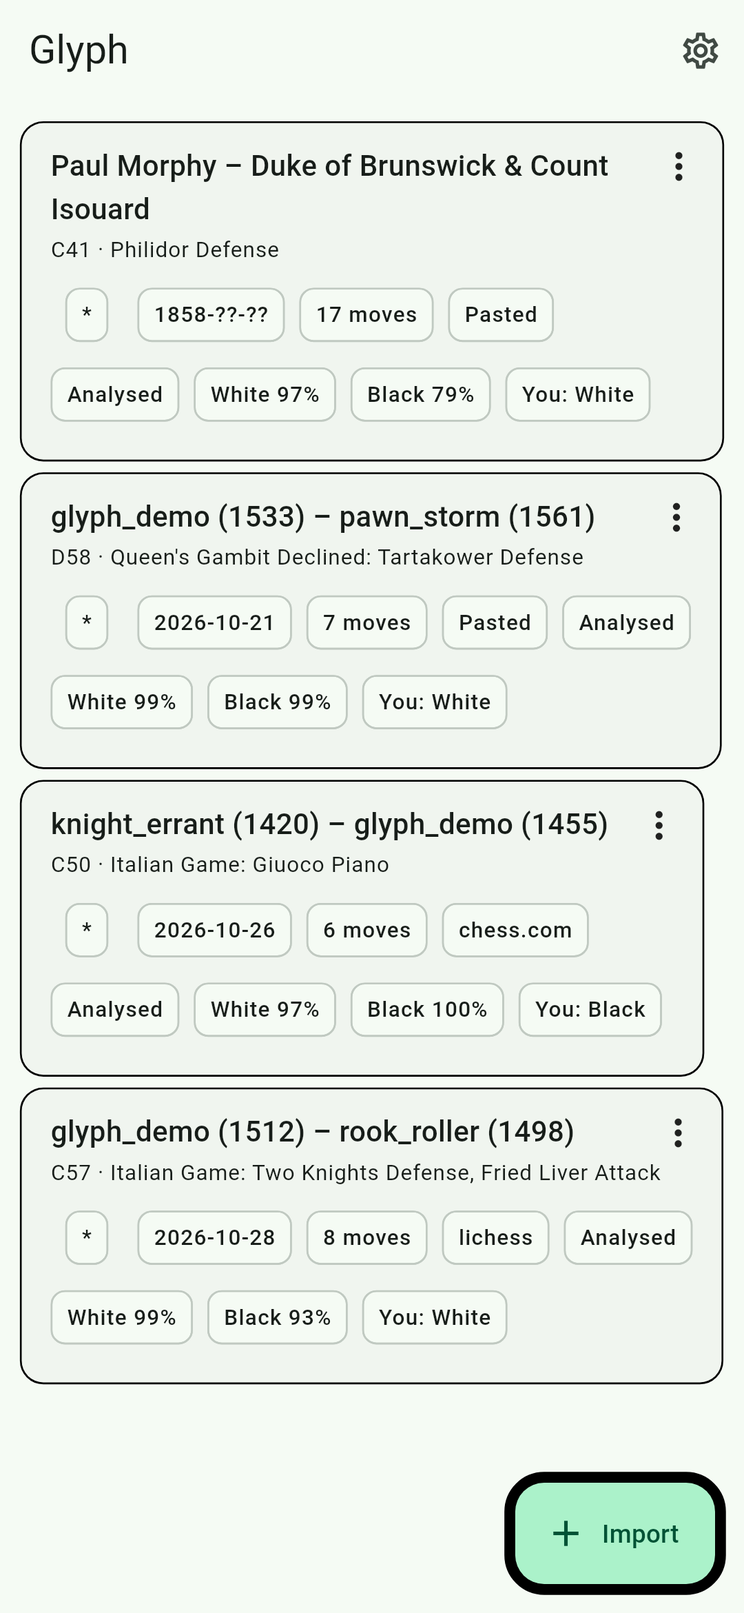
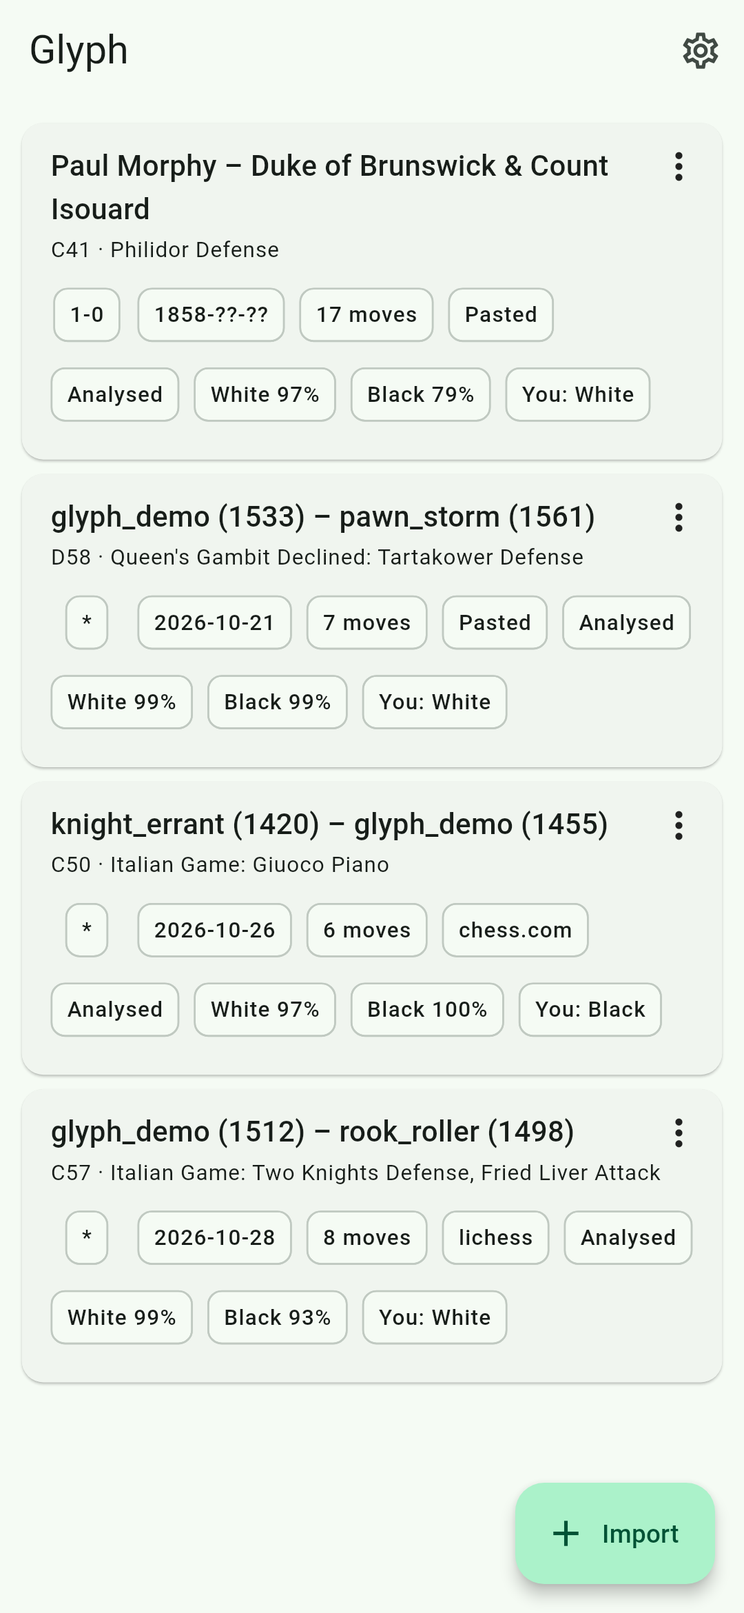
M9 review fixes: accurate docs, hardened release workflow, card width bug
- README: Ollama OLLAMA_HOST, honest interop/accuracy claims, exact
  Best/Great/Miss wording, correct User-Agents and doc pointers
- RELEASE.md: --force re-record, per-file synthetic SSE flags, single
  publishing path
- release.yml split build (read) / publish (write), actions pinned to
  SHAs, no persisted credentials, tag == pubspec version, per-version
  notes; ci.yml contents: read
- Library cards fill the list width (Dismissible loosened constraints);
  regression test
- Screenshots regenerated with real shadows and results
- PROGRESS acceptance table cleaned up

Claude-Session: https://claude.ai/code/session_01MHCGD6p3GEwnUrUNFEK8H3

diff --git a/app/test/screenshots/screenshots_test.dart b/app/test/screenshots/screenshots_test.dart
@@ -56,7 +56,7 @@ String _flutterRoot() {
 }
 
 class _Sample {
-  const _Sample(this.transcript, this.white, this.black, this.whiteElo, this.blackElo, this.date, this.source, this.userSide);
+  const _Sample(this.transcript, this.white, this.black, this.whiteElo, this.blackElo, this.date, this.source, this.userSide, this.result);
   final String transcript;
   final String white;
   final String black;
@@ -65,13 +65,18 @@ class _Sample {
   final String date;
   final GameSource source;
   final Side userSide;
+
+  /// The real result of the recorded moves: 1-0 for the Opera game (it ends in
+  /// Rd8#); the other three are recorded opening fragments (12 to 16 plies)
+  /// that end mid-game, so their result is "*".
+  final String result;
 }
 
 const _samples = [
-  _Sample('blunder_white', 'glyph_demo', 'rook_roller', 1512, 1498, '2026.10.28', GameSource.lichess, Side.white),
-  _Sample('italian_castle', 'knight_errant', 'glyph_demo', 1420, 1455, '2026.10.26', GameSource.chesscom, Side.black),
-  _Sample('queens_gambit', 'glyph_demo', 'pawn_storm', 1533, 1561, '2026.10.21', GameSource.paste, Side.white),
-  _Sample('mate_opera', 'Paul Morphy', 'Duke of Brunswick & Count Isouard', 0, 0, '1858.??.??', GameSource.paste, Side.white),
+  _Sample('blunder_white', 'glyph_demo', 'rook_roller', 1512, 1498, '2026.10.28', GameSource.lichess, Side.white, '*'),
+  _Sample('italian_castle', 'knight_errant', 'glyph_demo', 1420, 1455, '2026.10.26', GameSource.chesscom, Side.black, '*'),
+  _Sample('queens_gambit', 'glyph_demo', 'pawn_storm', 1533, 1561, '2026.10.21', GameSource.paste, Side.white, '*'),
+  _Sample('mate_opera', 'Paul Morphy', 'Duke of Brunswick & Count Isouard', 0, 0, '1858.??.??', GameSource.paste, Side.white, '1-0'),
 ];
 
 Future<void> _settle(WidgetTester tester, {int rounds = 12}) async {
@@ -101,6 +106,9 @@ void main() {
   testWidgets('README screenshots', timeout: const Timeout(Duration(minutes: 5)), (tester) async {
     WidgetsApp.debugAllowBannerOverride = false; // no "DEBUG" ribbon in the images
     addTearDown(() => WidgetsApp.debugAllowBannerOverride = true);
+    // The test binding turns shadows off; the README images should show the real elevation.
+    final shadowsWereDisabled = debugDisableShadows;
+    debugDisableShadows = false;
     final root = _flutterRoot();
     await tester.runAsync(() async {
       await _loadFont('Roboto', [
@@ -135,7 +143,7 @@ void main() {
       final tg = games.firstWhere((g) => g.name == s.transcript);
       final pgn = '[Event "Glyph sample"]\n[Date "${s.date}"]\n[White "${s.white}"]\n[Black "${s.black}"]\n'
           '${s.whiteElo > 0 ? '[WhiteElo "${s.whiteElo}"]\n[BlackElo "${s.blackElo}"]\n' : ''}'
-          '[Result "*"]\n\n${tg.toPgn()}';
+          '[Result "${s.result}"]\n\n${tg.toPgn()}';
       final game = parsePgn(pgn).games.first;
       final saved = await env.games.save(NewGame.fromGame(
         game,
@@ -168,7 +176,7 @@ void main() {
 
     await _shot(tester, boundaryKey, 'library');
 
-    // Board: the Opera game at 17. Qb8+ (ply 31).
+    // Board: the Opera game after 16. Qb8+ (ply 31 of 33).
     final opera = ids['mate_opera']!;
     await tester.tap(find.byKey(ValueKey('game-$opera')));
     await _settle(tester, rounds: 10);
@@ -208,7 +216,8 @@ void main() {
     await _settle(tester, rounds: 3);
     await fake.finish();
     await _settle(tester, rounds: 12);
-    await tester.drag(find.byType(Scrollable).first, const Offset(0, 4000));
+    // The report shot shows the summary card (scroll it into view).
+    await tester.ensureVisible(find.byKey(const Key('summary-card')));
     await _settle(tester, rounds: 6);
     await _shot(tester, boundaryKey, 'report');
 
@@ -219,5 +228,6 @@ void main() {
     await tester.tap(find.byTooltip(l10n.settingsTooltip));
     await _settle(tester, rounds: 12);
     await _shot(tester, boundaryKey, 'settings');
+    debugDisableShadows = shadowsWereDisabled; // the binding checks this before tearDown runs
   });
 }

diff --git a/packages/glyph_core/tool/gen_sse_fixtures.dart b/packages/glyph_core/tool/gen_sse_fixtures.dart
@@ -32,6 +32,7 @@ void writeStream(String file, String body, {required String? finish, String? err
   File('$outDir/$file').writeAsStringSync(body);
   manifest.add({
     'file': file,
+    'synthetic': true,
     'type': 'stream',
     'text': errorKind == null || text != null ? (text ?? fullText) : null,
     'finishReason': finish,
@@ -48,7 +49,7 @@ void writeHttp(String file, int status, String reason, String contentType, Strin
     ..write('\r\n')
     ..write(body);
   File('$outDir/$file').writeAsStringSync(out.toString());
-  manifest.add({'file': file, 'type': 'http', 'status': status, 'errorKind': kind, 'param': param, 'note': note});
+  manifest.add({'file': file, 'synthetic': true, 'type': 'http', 'status': status, 'errorKind': kind, 'param': param, 'note': note});
 }
 
 void main() {
@@ -247,8 +248,8 @@ void main() {
 
   File('$outDir/manifest.json').writeAsStringSync(
     '${const JsonEncoder.withIndent('  ').convert({
-      'synthetic': true,
-      'note': synthetic,
+      'synthetic': true, // true while ANY vector is synthetic
+      'note': 'Top-level "synthetic" is true while ANY vector is synthetic; each vector has its own flag (set it to false when replaced by a real capture, docs/RELEASE.md section 2). Do not re-run this generator after replacing files: it overwrites them. $synthetic',
       'vectors': manifest,
     })}\n',
   );

diff --git a/packages/glyph_core/test/llm/sse_vectors_test.dart b/packages/glyph_core/test/llm/sse_vectors_test.dart
@@ -58,11 +58,18 @@ void main() {
   final streams = vectors.where((v) => v['type'] == 'stream').toList();
   final errors = vectors.where((v) => v['type'] == 'http').toList();
 
-  test('the manifest says the vectors are synthetic', () {
-    expect(manifest['synthetic'], isTrue);
+  test('synthetic vectors carry the marker; the top-level flag means "any synthetic"', () {
+    final flags = [for (final v in vectors) v['synthetic'] as bool];
+    expect(manifest['synthetic'], flags.any((f) => f));
     for (final v in vectors) {
       final text = File('$dir/${v['file']}').readAsStringSync();
-      expect(text.toLowerCase(), contains('synthetic'), reason: '${v['file']} must carry the marker');
+      if (v['synthetic'] == true) {
+        expect(text.toLowerCase(), contains('synthetic'), reason: '${v['file']} must carry the marker');
+      } else {
+        // A real capture must not claim to be synthetic and must be redacted.
+        expect(text.toLowerCase(), isNot(contains('synthetic')), reason: '${v['file']} is marked real');
+        expect(text, isNot(matches(RegExp(r'sk-|bearer', caseSensitive: false))), reason: '${v['file']} is not redacted');
+      }
     }
   });
 

diff --git a/app/test/features/library_test.dart b/app/test/features/library_test.dart
@@ -164,4 +164,16 @@ void main() {
     expect(states.whereType<AnalysisFailed>(), isEmpty);
     expect(states.last, isA<AnalysisCancelled>());
   });
+
+  testWidgets('every game card has the full list width, whatever its content', (tester) async {
+    final env = TestEnv();
+    await env.seed(white: 'A', black: 'B', result: '*', importedAt: 1);
+    await env.seed(white: 'Alexander the Great of Macedonia', black: 'Bartholomew the Brave of Brunswick', result: '1-0', importedAt: 2, status: AnalysisStatus.completed, completedPlies: 40, whiteAccuracy: 91.4, blackAccuracy: 78.6, eco: 'C60', openingName: 'Ruy Lopez');
+    await env.seed(white: 'Cy', black: 'Di', result: '0-1', importedAt: 3);
+    await env.pump(tester);
+    final widths = [for (final e in tester.elementList(find.byType(Card))) tester.getSize(find.byWidget(e.widget)).width];
+    expect(widths, hasLength(3));
+    expect(widths.toSet(), hasLength(1), reason: 'card widths $widths');
+    expect(widths.first, greaterThan(300));
+  });
 }

diff --git a/app/lib/features/library/library_screen.dart b/app/lib/features/library/library_screen.dart
@@ -128,7 +128,9 @@ class _GameList extends ConsumerWidget {
           background: _swipeBackground(scheme, Alignment.centerLeft),
           secondaryBackground: _swipeBackground(scheme, Alignment.centerRight),
           onDismissed: (_) => _onDismissed(context, ref, game),
-          child: GameCard(game: game),
+          // Dismissible lays its child out in a Stack, which loosens the width: without
+          // this the card shrinks to its content and short cards come out narrower.
+          child: SizedBox(width: double.infinity, child: GameCard(game: game)),
         );
       },
     );

diff --git a/README.md b/README.md
@@ -16,7 +16,7 @@ Status: version 0.1.0, **not released yet**. See [Known limitations](#known-limi
 |---|---|
 | ![Report](docs/screenshots/report.png) | ![Settings](docs/screenshots/settings.png) |
 
-*How these were made:* `app/test/screenshots/screenshots_test.dart` renders the real app in Flutter's test renderer (real fonts, real piece images) over **recorded** Stockfish output, run through the real analysis, classification and accuracy code. The Explain and summary texts are **canned strings from a scripted fake client** (the model name shows as `fake-client`), not output of a language model. They were not taken on a phone. Regenerate with `cd app && flutter test --run-skipped --tags screenshots test/screenshots`.
+*How these were made:* `app/test/screenshots/screenshots_test.dart` renders the real app in Flutter's test renderer (real fonts, real piece images) over **recorded Stockfish 19 output**, run through the real analysis, classification and accuracy code. The report image is scrolled to the game summary. Three of the four library games are short recorded opening fragments (12 to 16 plies, invented player names, result `*`); the fourth is Morphy's Opera Game (1-0). The Explain and summary texts are **canned strings from a scripted fake client** (the model name shows as `fake-client`), not output of a language model. They were not taken on a phone. Regenerate with `cd app && flutter test --run-skipped --tags screenshots test/screenshots`.
 
 ## Features
 
@@ -39,7 +39,7 @@ Everything is deterministic code over stored engine lines; every constant is in 
 
    | Label | EP loss |
    |---|---|
-   | Best | 0 (the engine's top move) |
+   | Best | 0 (the engine's top move, or its second line when that scores the same as the top line) |
    | Excellent | up to 0.02 |
    | Good | 0.02 to 0.05 |
    | Inaccuracy | 0.05 to 0.10 |
@@ -50,9 +50,9 @@ Everything is deterministic code over stored engine lines; every constant is in 
    - *Book*: standard start, every earlier ply was Book, and the position after the move is in the bundled lichess `chess-openings` set (matched by position, so transpositions count).
    - *Forced*: exactly one legal move.
    - *Brilliant*: loss <= 0.02, a real **sacrifice** by static exchange evaluation (trades and recaptures do not count), you are not worse afterwards (Win% >= 50) and were not already winning (<= 97).
-   - *Great*: the played move is the engine's top move, the second-best line is at least 20 Win% points worse, the outcome bucket (losing / unclear / winning) changes between them, and it is not an obvious recapture.
-   - *Miss*: you gave back most of an opponent error (both losses >= 0.10), or missed a forced mate in 5 or fewer with loss >= 0.05; a move that is also a Blunder into a worse position stays a Blunder.
-4. **Accuracy** is lichess's `AccuracyPercent` algorithm (volatility-weighted mean averaged with a harmonic mean over sliding windows). It reproduces the integer accuracy lichess reports on all 80 player-results of the 40 server-analysed lichess games in the test vectors.
+   - *Great*: the played move is the engine's top move, the second-best line is at least 20 Win% points worse, the outcome bucket (losing / unclear / winning) changes between them, and it is not an obvious recapture, not a forced move (one legal move) and not a checkmating move (mate-in-1 delivered is Best).
+   - *Miss*: (a) the opponent's previous move lost at least 0.10, your reply also loses at least 0.10, and your Win% afterwards is no more than 5 points above what you had before the opponent's error; or (b) the engine had a forced mate for you in 5 or fewer, your move keeps no forced mate, and its loss is at least 0.05. A move that would be a Blunder and leaves you at or below 50 Win% stays a Blunder.
+4. **Accuracy** is lichess's `AccuracyPercent` algorithm (volatility-weighted mean averaged with a harmonic mean over sliding windows). Fed lichess's own evaluations, it reproduces the integer accuracy lichess reports on all 80 player-results of the 40 server-analysed lichess games in the test vectors. On the phone the evaluations come from Glyph's own Stockfish run (different engine build and depth), so its accuracy numbers can differ from lichess's.
 
 **This approximates chess.com's published idea; it does not copy it.** The loss thresholds are those chess.com publishes for its expected-points model, but they are applied on lichess's open Win% curve (chess.com's own curve is rating-dependent and unpublished), and Brilliant, Great and Miss use Glyph's own rules. Glyph's labels will differ from chess.com's Game Review on some moves. Glyph has its own badge icons and does not use chess.com's name, icons or model.
 
@@ -64,8 +64,8 @@ Explain and the game summary need an **OpenAI-compatible Chat Completions** endp
 |---|---|---|---|
 | OpenAI | `https://api.openai.com/v1` | required | enter a model name you have access to |
 | OpenRouter | `https://openrouter.ai/api/v1` | required | model ids look like `vendor/model` |
-| Ollama (your computer) | `http://<computer-ip>:11434/v1` | not needed | the preset fills `http://localhost:11434/v1`; replace `localhost` with your computer's address (on a phone, `localhost` is the phone itself) |
-| LM Studio (your computer) | `http://<computer-ip>:1234/v1` | not needed | enable "serve on local network" in LM Studio |
+| Ollama (your computer) | `http://<computer-ip>:11434/v1` | not needed | the preset fills `http://localhost:11434/v1`; replace `localhost` with your computer's address (on a phone, `localhost` is the phone itself). Ollama listens on localhost only by default: start it with `OLLAMA_HOST=0.0.0.0` (or set that in the service configuration) so the phone can reach it, and allow port 11434 in the computer's firewall |
+| LM Studio (your computer) | `http://<computer-ip>:1234/v1` | not needed | turn on LM Studio's local-network option for the server ("Serve on Local Network" in its server settings) and start the server |
 | Custom | any `https://` address, or private `http://` | optional | llama.cpp server and others |
 
 - **Plain `http://`** is allowed only for `localhost`, `127.0.0.0/8`, `10/8`, `172.16/12`, `192.168/16`, `100.64/10` (Tailscale) and `.local` / `.lan` names. Any other `http://` address is refused with a clear message.
@@ -74,14 +74,15 @@ Explain and the game summary need an **OpenAI-compatible Chat Completions** endp
 
 ## Privacy
 
-No account, no analytics, no crash reporting, no server of Glyph's own. Games and analyses stay on the phone and are excluded from Android backups. The app talks only to `lichess.org` and `api.chess.com` when you fetch games (your username in the URL, a generic `Glyph/<version>` User-Agent) and to the LLM server you configure when you ask for an explanation. Prompts contain FENs, SAN lines, evaluations and labels, never names, usernames, ratings, sites, dates or event names. The release APK requests only `INTERNET` (plus a signature-level permission AndroidX adds for itself). Details: [docs/PRIVACY.md](docs/PRIVACY.md).
+No account, no analytics, no crash reporting, no server of Glyph's own. Games and analyses stay on the phone and are excluded from Android backups. The app talks only to `lichess.org` and `api.chess.com` when you fetch games (your username in the URL, a `Glyph/<version> (+https://github.com/Umar-Haqimi/Glyph)` User-Agent) and to the LLM server (User-Agent `Glyph/<version>`) you configure when you ask for an explanation. Prompts contain FENs, SAN lines, evaluations and labels, never names, usernames, ratings, sites, dates or event names. The release APK requests only `INTERNET` (plus a signature-level permission AndroidX adds for itself). Details: [docs/PRIVACY.md](docs/PRIVACY.md).
 
 ## Interoperability
 
 | Direction | Source | Status |
 |---|---|---|
-| Import | lichess web export, API export (with `[%eval]` / `[%clk]` / opening), lichess app share | golden tests on real and synthetic files: full mainline and headers |
-| Import | chess.com download, API monthly archive, chess.com app share text (with the share preamble) | golden tests: full mainline and headers |
+| Import | lichess API export (with `[%eval]` / `[%clk]` / opening) | golden test on a **real** file (a trimmed lichess API response, `docs/m0/lichess_sample.ndjson`): full mainline and headers |
+| Import | lichess app share | **synthetic** fixture written to match the documented format (`lichess_app_share.pgn`), not taken from the app. The lichess web export has no fixture of its own |
+| Import | chess.com API monthly archive / download, chess.com app share text | **derived** fixtures: real game data from the chess.com API (`docs/m0/chesscom_sample.json`); the app-share file adds a synthetic share preamble. Real downloads and shares from the apps are a device check (HARDWARE_TEST C, G) |
 | Import | multi-game files (up to 500 games), BOM, CRLF, variations, NAGs, nested braces, Chess960 and `[FEN]` starts | golden tests; mainline only is kept; other variants are rejected with a message |
 | Import | lichess by username (NDJSON stream, last 30), chess.com by username (archives newest-first, `ETag` cache) | tested against local fake servers, and once by hand against the real APIs |
 | Export | annotated PGN: original headers, `[%eval]`, `[%clk]`, NAGs (`$3 $1 $6 $2 $4`; Miss is `$2` plus a `{ Miss }` comment), `[Annotator "Glyph"]` | re-import into Glyph gives the same mainline, headers and evals (tested) |
@@ -89,7 +90,7 @@ No account, no analytics, no crash reporting, no server of Glyph's own. Games an
 
 ## Build
 
-Requirements: Flutter **3.47.9** (pinned in `.fvmrc`; `fvm use` or install that version), Dart 3.13, JDK 21 (as in CI), the Android SDK (platform 36). The Android NDK is the one Flutter selects (`flutter.ndkVersion`, 28.2.13676358 for 3.47.9) and Gradle downloads it; `compileSdk` and `targetSdk` are the values Flutter 3.47.9 provides (36); `minSdk` is 26. The build needs network access (the `sqlite3` build hook and the `multistockfish_light` CMake step download files).
+Requirements: Flutter **3.47.9** (pinned in `.fvmrc`; `fvm use` or install that version), Dart 3.13, JDK 21 (as in CI), the Android SDK (platform 36). The `tool/` scripts also need the SDK's cmdline-tools (`apkanalyzer`, for `check_permissions.sh`) and build-tools (`apksigner`, for `check_signing.sh`). The Android NDK is the one Flutter selects (`flutter.ndkVersion`, 28.2.13676358 for 3.47.9) and Gradle downloads it; `compileSdk` and `targetSdk` are the values Flutter 3.47.9 provides (36); `minSdk` is 26. The build needs network access (the `sqlite3` build hook and the `multistockfish_light` CMake step download files).
 
 ```sh
 git clone https://github.com/Umar-Haqimi/Glyph.git && cd Glyph
@@ -106,17 +107,18 @@ flutter build apk --release --split-per-abi
 ```sh
 (cd packages/glyph_core && dart analyze && dart test)   # pure-Dart core: classifier, accuracy, PGN, LLM, online clients
 (cd app && flutter analyze && flutter test)             # widget, repository and hygiene tests
-bash tool/check_permissions.sh && bash tool/check_banned_deps.sh   # after a release build
+bash tool/check_permissions.sh   # needs the release APKs from the build above
+bash tool/check_banned_deps.sh   # needs only `flutter pub get` (reads pubspec.lock files)
 ```
 
-Tests that need a desktop Stockfish (`STOCKFISH_PATH`) or a device (`app/integration_test`, tag `device`) are skipped by default; how to run them is in [docs/HARDWARE_TEST.md](docs/HARDWARE_TEST.md). The vector commands are in [docs/m0/VECTORS.md](docs/m0/VECTORS.md) (also reachable as `docs/VECTORS.md`).
+Tests that need a device (`app/integration_test`, tag `device`) are skipped by default; how to run them is in [docs/HARDWARE_TEST.md](docs/HARDWARE_TEST.md). Setting up `STOCKFISH_PATH` (desktop Stockfish, used to record transcripts) is in [docs/m0/VECTORS.md](docs/m0/VECTORS.md) section 3; the other vector commands are there too (also reachable as `docs/VECTORS.md`).
 
 ## Threat model (summary)
 
 Glyph handles untrusted input (PGN text and files, shared content, online API responses, LLM output) and one secret (your API key).
 
-- **Untrusted input is capped:** PGN 2 MB, 500 games per file, 1000 plies per game, 4 KB per comment, 50 online games (30 by default), 1 MB per NDJSON line, 16 MB per response, 32 KB per explanation (1 MB total stream), with connect / first-byte / total timeouts. Each cap has a test. Redirects are never followed.
-- **Share intake** goes through a separate UI-less activity that validates the payload, reads it in memory with a watchdog and hands it to the app with a per-process token; the main activity ignores other intents. Deep links are disabled.
+- **Untrusted input is capped:** PGN 2 MB, 500 games per file, 1000 plies per game, 4 KB per comment, 50 online games (30 by default), 1 MB per NDJSON line, 16 MB per response, 32 KB per explanation (1 MB total stream), with connect / first-byte / total timeouts. Each cap has a test; the 15 s connect timeout is only tested as a configured value (no test against an unreachable host). Redirects are never followed.
+- **Share intake** goes through a separate UI-less activity (`ShareIntakeActivity`) that validates the payload and forwards it with a per-process token; the capped, in-memory read with a 15 s watchdog happens in `MainActivity.kt`, which ignores intents without the token. Deep links are disabled.
 - **The API key** is only in secure storage, read per request, bound to its address, never written to SQLite, settings, logs, clipboard, exported PGN or "View prompt". Dart strings cannot be wiped from memory; the short lifetime is the mitigation.
 - **LLM output** is rendered as plain text: no web view, links or images. Prompts are SAN-only and contain no personal data.
 - **No telemetry, no Play Services**; `tool/check_banned_deps.sh` fails CI otherwise. In release builds nothing from Dart code reaches logcat.

diff --git a/docs/PROGRESS.md b/docs/PROGRESS.md
@@ -282,7 +282,7 @@ Notes for M9:
 
 Done:
 - `README.md` (what it is with real screenshots, features, classification and its approximation of chess.com, LLM provider setup incl. the per-origin http opt-in and key binding, privacy summary, build and signing steps, tests, interop table, threat model summary, known limitations, licence, credits), `CHANGELOG.md` (0.1.0, Unreleased), `docs/RELEASE.md` (keystore, env vars, `tool/build_release.sh`, the three checks, SF19 and SSE re-recording, HARDWARE_TEST, tag, GitHub release with SHA-256 sums), `docs/VECTORS.md` (pointer to `docs/m0/VECTORS.md`, which stays where it is because code, tests and vector manifests link to it).
-- **Screenshots are real renders**, not mock-ups: `app/test/screenshots/screenshots_test.dart` (tag `screenshots`, skipped by default in `app/dart_test.yaml`; run `cd app && flutter test --run-skipped --tags screenshots test/screenshots`) loads Roboto and Material Icons from the Flutter SDK cache, runs four games through the real analysis pipeline, classifier and accuracy code over recorded Stockfish transcripts (SF19 and SF16, see M4), and captures `docs/screenshots/{library,board,explain,report,settings}.png` at 1080x2340 (412x892 @ 2.625). The Explain and summary texts are canned strings from `FakeLlm` (model name `fake-client`, text says so). They are not photographs of a phone.
+- **Screenshots are real renders**, not mock-ups: `app/test/screenshots/screenshots_test.dart` (tag `screenshots`, skipped by default in `app/dart_test.yaml`; run `cd app && flutter test --run-skipped --tags screenshots test/screenshots`) loads Roboto and Material Icons from the Flutter SDK cache, runs four games through the real analysis pipeline, classifier and accuracy code over recorded Stockfish transcripts (all four screenshot games are Stockfish 19 transcripts; three are 12 to 16 ply opening fragments with result `*`, the Opera game is 1-0), and captures `docs/screenshots/{library,board,explain,report,settings}.png` at 1080x2340 (412x892 @ 2.625). The Explain and summary texts are canned strings from `FakeLlm` (model name `fake-client`, text says so). They are not photographs of a phone.
 - CI (`.github/workflows/ci.yml`) already ran everything SPEC 9 lists (core analyze and test, app analyze and test, release split-ABI build, permission check, banned-deps check); no change. New `.github/workflows/release.yml` on `v*` tags: tests, `tool/build_release.sh` with signing secrets (`GLYPH_KEYSTORE_BASE64`, `GLYPH_KEYSTORE_PASSWORD`, `GLYPH_KEY_ALIAS`, `GLYPH_KEY_PASSWORD`), `SHA256SUMS`, **draft** GitHub release. Never triggered.
 
 ### Final acceptance checklist (SPEC section 9)
@@ -291,21 +291,21 @@ Legend: MET = proven on the host (test or script); DEVICE = needs a phone, real 
 
 | # | Criterion | Status | Evidence / note |
 |---|---|---|---|
-| 1 | core `dart test`, `flutter analyze`, `flutter test`, release split-ABI build pass in CI | MET locally (CI not run from here) | final M9 run; `.github/workflows/ci.yml` runs the same commands |
+| 1 | core `dart test`, `flutter analyze`, `flutter test`, release split-ABI build pass in CI | MET locally; CI not run | final M9 run, host only; `.github/workflows/ci.yml` runs the same commands |
 | 2 | P0 mirrored blunders give identical labels | MET with DEVIATION | `packages/glyph_core/test/classify/p0_mirror_test.dart`: exact on mechanically mirrored transcripts; the recorded White/Black pairs only agree on the decisive moves (fixed-depth search is not colour-symmetric), DECISIONS M4 |
 | 3 | Accuracy within +-1 of lichess on all vectors | MET | `test/classify/win_percent_accuracy_test.dart`: 40 games, 80/80 exact |
 | 4 | Every `classify/` vector passes (castling = Best, trades not Brilliant, recapture not Great, repetition) | MET with caveat | `test/classify/classify_vectors_test.dart` (63 cases). Most transcripts are Stockfish 16, not 19 (re-record, `docs/RELEASE.md` section 2) |
 | 5 | PGN from lichess web / API / app share, chess.com download / app share imports with the full mainline | MET on golden files | `test/pgn_vectors_test.dart`; the manual check with real app shares is DEVICE (HARDWARE_TEST C, G) |
-| 6 | Exported PGN re-imports identically and shows glyphs in a lichess study | re-import MET (`pgn_vectors_test.dart` round trip, `app/test/features/export_pgn_test.dart`); lichess study DEVICE (manual, HARDWARE_TEST) |
+| 6 | Exported PGN re-imports identically and shows glyphs in a lichess study | re-import MET; lichess study DEVICE | re-import: `pgn_vectors_test.dart` round trip, `app/test/features/export_pgn_test.dart`; the lichess study import is manual (HARDWARE_TEST E2) |
 | 7 | ~80-ply game at Normal in <= 3 min on the primary device; cancel, background, force-stop resume | DEVICE | HARDWARE_TEST A, B. Resume logic itself is MET on the host (`test/analysis_pipeline_test.dart`, `app/test/engine/engine_service_test.dart`) |
-| 8 | Explain streams against OpenAI, OpenRouter, LAN Ollama; each error kind reachable with its copy | streaming/errors MET against fakes and a local server (`llm_client_test.dart`, `error_mapper_test.dart`, `app/test/features/explain_sheet_test.dart`, `error_copy_test.dart`); real providers DEVICE (HARDWARE_TEST D). SSE vectors are synthetic (DEVIATION, M6) |
+| 8 | Explain streams against OpenAI, OpenRouter, LAN Ollama; each error kind reachable with its copy | streaming/errors MET on host; real providers DEVICE | against fakes and a local server: `llm_client_test.dart`, `error_mapper_test.dart`, `app/test/features/explain_sheet_test.dart`, `error_copy_test.dart`; real providers HARDWARE_TEST D. SSE vectors are synthetic (DEVIATION, M6) |
 | 9 | Changing model, language or tone gives a fresh explanation | MET | `test/llm/cache_key_test.dart`, `explain_sheet_test.dart` (invalidation by model, language, tone, audience) |
 | 10 | Summary on by default, auto after analysis with a key, gone when off | MET | `app/test/features/summary_test.dart` |
-| 11 | Fully usable offline except Explain / summary / online import | MET on host (`app/test/startup_test.dart`: no network at start; analysis uses no network); airplane-mode run is DEVICE (HARDWARE_TEST) |
+| 11 | Fully usable offline except Explain / summary / online import | MET on host; airplane-mode run DEVICE | `app/test/startup_test.dart` (no network at start; analysis uses no network); airplane mode: HARDWARE_TEST D6, D7 |
 | 12 | Release APK permissions exactly {INTERNET} | MET with DEVIATION | `tool/check_permissions.sh` OK on all three APKs; allowlists the signature-level `my.umarh.glyph.DYNAMIC_RECEIVER_NOT_EXPORTED_PERMISSION` (DECISIONS M1) |
-| 13 | API key never in SQLite, settings, logs, View prompt | MET on host (`app/test/hygiene_test.dart`, `explain_sheet_test.dart`, `key_binding_test.dart`, `llm_client_test.dart`); `adb logcat` during Explain is DEVICE (HARDWARE_TEST H6) |
+| 13 | API key never in SQLite, settings, logs, View prompt | MET on host; logcat DEVICE | `app/test/hygiene_test.dart`, `explain_sheet_test.dart`, `key_binding_test.dart`, `llm_client_test.dart`; `adb logcat` during Explain and after the release run: HARDWARE_TEST D9 and H6 |
 | 14 | No player names / usernames in any prompt | MET | `test/llm/prompt_builder_test.dart` (snapshots, leak test), `app/test/privacy_doc_test.dart` |
-| 15 | `http://` works for private hosts, blocked with clear copy for public | MET on host (`test/llm/base_url_policy_test.dart`, `llm_settings_test.dart`); real LAN Ollama DEVICE (HARDWARE_TEST D) |
+| 15 | `http://` works for private hosts, blocked with clear copy for public | MET on host; real LAN Ollama DEVICE | `test/llm/base_url_policy_test.dart`, `llm_settings_test.dart`; real LAN Ollama: HARDWARE_TEST D3 (needs `OLLAMA_HOST=0.0.0.0`) |
 | 16 | Every cap in SPEC 6 has a passing test | MET with DEVIATION | `test/limits_caps_test.dart`; only the 15 s connect timeout has no behavioural test (`app/test/platform_http_test.dart` checks it is applied), DECISIONS M8 |
 | 17 | About shows GPL notice, source link, Stockfish credit, asset licences; no Firebase/ads/analytics in `pubspec.lock` | MET with DEVIATION | `app/test/features/about_screen_test.dart`, `asset_licences_test.dart`, `tool/check_banned_deps.sh`. The source link is displayed and copied, not opened (no `url_launcher`), DECISIONS M8 |
 | 18 | DECISIONS, PROGRESS, VECTORS, HARDWARE_TEST, PRIVACY, README exist and are complete | MET with caveats | all exist (`docs/VECTORS.md` is a pointer to `docs/m0/VECTORS.md`); HARDWARE_TEST results are empty until a device run |
@@ -313,3 +313,17 @@ Legend: MET = proven on the host (test or script); DEVICE = needs a phone, real 
 Other SPEC M9 items: `CHANGELOG.md` MET; tag `v0.1.0` and GitHub release NOT DONE on purpose (maintainer decision; steps in `docs/RELEASE.md`).
 
 Before tagging (all in `docs/RELEASE.md`): create the keystore, run `tool/build_release.sh`, HARDWARE_TEST A to J on the Honor phone, SF19 transcript re-recording, real SSE captures, lichess-study import check, optional removal of the two unused engine libraries.
+
+### M9 review fixes
+
+1. `docs/RELEASE.md`: transcript re-record uses `--force` (the flag exists in `tool/record_transcripts.dart`; without it existing transcripts are skipped). SSE capture replacement is now workable: `manifest.json` has a per-vector `synthetic` flag (top-level flag = any synthetic), `sse_vectors_test.dart` demands the marker only for `synthetic: true` entries and checks real ones are unmarked and redacted, `gen_sse_fixtures.dart` writes the flags; exact steps in RELEASE section 2.
+2. README / HARDWARE_TEST D3: Ollama needs `OLLAMA_HOST=0.0.0.0` for LAN use; LM Studio "Serve on Local Network".
+3. README interop table says which import fixtures are real (lichess API export; chess.com data from the API archive) and which are synthetic or derived (lichess app share; chess.com app-share preamble); real app shares stay a device check (C, G).
+4. README accuracy claim: 80/80 is with lichess's own evaluations; phone numbers may differ.
+5. Screenshots: shadows on (`debugDisableShadows` restored before the test ends), real PGN results (Opera 1-0, fragments `*`), comment fixed (ply 31 is 16. Qb8+), report image scrolled to the summary. The uneven library card widths were a **real bug**: `Dismissible` lays its child out in a `Stack`, which loosened the width so a card shrank to its content. Fixed with a full-width `SizedBox` around `GameCard`; widget test `every game card has the full list width` (fails without the fix).
+6. `release.yml` split into `build` (contents: read) and `publish` (contents: write) via artifacts; `persist-credentials: false`; tag must equal the `app/pubspec.yaml` version; notes are only that version's CHANGELOG section. All third-party actions in `ci.yml` and `release.yml` are pinned to full SHAs (checkout v4.3.1, setup-java v4.9.1, flutter-action v2.23.0, upload-artifact v4.6.2, download-artifact v4.3.0); `ci.yml` has `permissions: contents: read`.
+7. RELEASE: one publishing path (the workflow draft, reviewed and published by hand); manual only as a fallback.
+8. README classification wording matches `classifier.dart` (Best includes a second line tying the first, Great excludes forced and mating moves, Miss (a)/(b) conditions and the `<= 50` Blunder exception).
+9. to 12. README: User-Agents, STOCKFISH_PATH pointer (VECTORS section 3), connect timeout only tested as configured, share intake split between `ShareIntakeActivity` and `MainActivity.kt`.
+13. This table: ragged rows split into Status | Evidence, row 1 "MET locally; CI not run".
+14. README requirements: cmdline-tools and build-tools for the `tool/` scripts; `check_banned_deps.sh` needs only `pub get`.

diff --git a/docs/RELEASE.md b/docs/RELEASE.md
@@ -26,8 +26,12 @@ or `app/android/key.properties` (`storeFile` is relative to `app/android/`, `sto
 
 ## 2. Re-record data that was only synthetic or from another engine
 
-- [ ] **Stockfish 19 transcripts.** The M4 transcripts were recorded with Stockfish 16. With a Stockfish 19 desktop binary: `STOCKFISH_PATH=/path/to/stockfish dart run tool/record_transcripts.dart` (see `docs/m0/VECTORS.md` section 3), then `cd packages/glyph_core && dart test`. If a `classify/*.json` expectation moves, check that the new label is right for the position before updating the vector.
-- [ ] **Real SSE captures** for OpenAI, OpenRouter and Ollama plus error bodies, with the `curl` commands and redaction in `docs/m0/VECTORS.md` section 4. Replace the synthetic files one by one, update `test/vectors/sse/manifest.json` (remove `"synthetic"` for replaced files), run `dart test`. `grep -ciE 'sk-|bearer'` on the saved files must print 0.
+- [ ] **Stockfish 19 transcripts.** The M4 transcripts were recorded with Stockfish 16. With a Stockfish 19 desktop binary: `STOCKFISH_PATH=/path/to/stockfish dart run tool/record_transcripts.dart --force` (without `--force` the tool skips games that already have a transcript, so nothing would be re-recorded; see `docs/m0/VECTORS.md` section 3), then `cd packages/glyph_core && dart test`. If a `classify/*.json` expectation moves, check that the new label is right for the position before updating the vector.
+- [ ] **Real SSE captures** for OpenAI, OpenRouter and Ollama plus error bodies, with the `curl` commands and redaction in `docs/m0/VECTORS.md` section 4. Replace the synthetic files one by one:
+  1. Save the redacted capture over the file of the same name in `packages/glyph_core/test/vectors/sse/` (it must not contain the word "synthetic"; `grep -ciE 'sk-|bearer'` on it must print 0).
+  2. In `manifest.json` set that entry's `"synthetic"` to `false` and fix its expected `text`, `finishReason` / `errorKind` (or `status`, `param`) to what the real answer says. The top-level `"synthetic"` must be `true` while any entry is still synthetic and `false` when none is (the test checks this).
+  3. Run `cd packages/glyph_core && dart test test/llm/sse_vectors_test.dart`: entries marked synthetic must carry the marker, real ones must not and must be redacted.
+  4. Do not run `tool/gen_sse_fixtures.dart` afterwards: it regenerates all files as synthetic and overwrites the captures.
 - [ ] Optional: refresh lichess accuracy vectors (`dart run tool/fetch_lichess_vectors.dart`); the committed files are the reference.
 
 ## 3. Checks on the host
@@ -74,13 +78,13 @@ sha256sum -c SHA256SUMS
 git tag -s v0.1.0 -m "Glyph 0.1.0"     # or -a
 git push origin v0.1.0
 ```
-Then create the GitHub release `v0.1.0` with the `CHANGELOG.md` text and attach the three split APKs and `SHA256SUMS`. If the `release.yml` workflow is used, it does this when the tag is pushed (see below); check its output either way.
+The tag push starts `.github/workflows/release.yml`, which is the one publishing path: it checks that the tag matches `app/pubspec.yaml`, builds and signs the APKs, writes `SHA256SUMS` and creates a **draft** GitHub release `v0.1.0` whose notes are the `0.1.0` section of `CHANGELOG.md`. Review the draft (three split APKs plus `SHA256SUMS`, notes) and press **Publish release** yourself. Only if the workflow fails and cannot be fixed, build locally (sections 4 and 6) and create the release by hand with `gh release create v0.1.0 --draft --notes-file <the 0.1.0 section>` and the same four files.
 
 - [ ] Download an attached APK and verify its SHA-256 and `apksigner verify --print-certs`.
 
-## Optional: release workflow
+## The release workflow
 
-`.github/workflows/release.yml` runs on `v*` tags: runs the core tests, analyze and widget tests, builds with `tool/build_release.sh`, writes `SHA256SUMS`, and creates a **draft** GitHub release with the three APKs. Repository secrets it needs:
+`.github/workflows/release.yml` runs on `v*` tags. Job `build` (read-only token, no persisted credentials): checks the tag against `app/pubspec.yaml` (`${GITHUB_REF_NAME#v}` must equal the version without `+build`), runs the core tests, analyze and widget tests, builds with `tool/build_release.sh`, writes `SHA256SUMS` and uploads the APKs and sums as a workflow artifact. Job `publish` (the only one with `contents: write`): downloads that artifact and creates a **draft** GitHub release with the three APKs, `SHA256SUMS` and the notes cut from that version's `CHANGELOG.md` section. Third-party actions are pinned to full commit SHAs (version in a comment); update them deliberately. Repository secrets it needs:
 
 | Secret | Content |
 |---|---|
@@ -89,4 +93,4 @@ Then create the GitHub release `v0.1.0` with the `CHANGELOG.md` text and attach 
 | `GLYPH_KEY_ALIAS` | key alias (`glyph`) |
 | `GLYPH_KEY_PASSWORD` | key password |
 
-It does not replace sections 2 and 5: re-recording and the device test are manual.
+It does not replace sections 2 and 5: re-recording and the device test are manual. The CHANGELOG heading must be `## [0.1.0] ...` for the notes step to find it.

diff --git a/docs/m0/VECTORS.md b/docs/m0/VECTORS.md
@@ -42,7 +42,7 @@ Determinism: use Threads=1; node counts are stable on the same binary/hash.
 
 ## 4. SSE captures (sse/)
 
-**Status (M6): the committed vectors are SYNTHETIC, not captures.** No API keys were available in M0-M6, so `packages/glyph_core/test/vectors/sse/` holds hand-built files that reproduce each provider's *documented* streaming format: OpenAI chat completion chunks (role chunk, `finish_reason`, `stream_options.include_usage` chunk with empty `choices`, `length`, an `{"error": ...}` event mid-stream), OpenRouter (`: OPENROUTER PROCESSING` comment lines, `provider` / `native_finish_reason`, usage chunk, the mid-stream error chunk with `finish_reason: "error"`), Ollama / LM Studio `/v1` (plain chunks, a thinking model's `reasoning` deltas), a CRLF / multi-line `data:` / lone-CR / `id` `event` `retry` stress file, and the HTTP error bodies of OpenAI (401, 404 model, 429 rate, 429 quota, 400 `unsupported_parameter`, 400 `unsupported_value`, 500, 503 HTML), OpenRouter (401, 402, 400 invalid model, 429) and Ollama (404 model, 404 wrong path). Every file carries a marker (`: SYNTHETIC vector ...` in streams, `x-glyph-synthetic: true` in the `.http` files), `manifest.json` has `"synthetic": true`, and a test fails if a vector lacks the marker. `packages/glyph_core/tool/gen_sse_fixtures.dart` regenerates them (`dart run tool/gen_sse_fixtures.dart`).
+**Status (M6): the committed vectors are SYNTHETIC, not captures.** No API keys were available in M0-M6, so `packages/glyph_core/test/vectors/sse/` holds hand-built files that reproduce each provider's *documented* streaming format: OpenAI chat completion chunks (role chunk, `finish_reason`, `stream_options.include_usage` chunk with empty `choices`, `length`, an `{"error": ...}` event mid-stream), OpenRouter (`: OPENROUTER PROCESSING` comment lines, `provider` / `native_finish_reason`, usage chunk, the mid-stream error chunk with `finish_reason: "error"`), Ollama / LM Studio `/v1` (plain chunks, a thinking model's `reasoning` deltas), a CRLF / multi-line `data:` / lone-CR / `id` `event` `retry` stress file, and the HTTP error bodies of OpenAI (401, 404 model, 429 rate, 429 quota, 400 `unsupported_parameter`, 400 `unsupported_value`, 500, 503 HTML), OpenRouter (401, 402, 400 invalid model, 429) and Ollama (404 model, 404 wrong path). Every file carries a marker (`: SYNTHETIC vector ...` in streams, `x-glyph-synthetic: true` in the `.http` files), `manifest.json` has a `"synthetic"` flag per vector (the top-level flag means "any synthetic"), and a test fails if a flagged vector lacks the marker (and if an unflagged one has it or is not redacted). `packages/glyph_core/tool/gen_sse_fixtures.dart` regenerates them (`dart run tool/gen_sse_fixtures.dart`).
 
 `test/llm/sse_vectors_test.dart` feeds every stream whole, split at **every** byte boundary, 200 random multi-chunk splits, byte by byte, and through `LlmClient` in 7-byte chunks; it checks the decoded text, the finish reason and the error kind from `manifest.json`, and maps every `.http` file with `ErrorMapper`. Real captures replace the synthetic files one by one: save the capture under the same file name and keep the manifest entry (text / finish reason / error kind) in step with what the real answer says.
 

diff --git a/docs/DECISIONS.md b/docs/DECISIONS.md
@@ -671,3 +671,9 @@ Findings of the M8 review (all fixed; each has a regression test).
 8. **Engine settings.** One number decides the thread ceiling (`EngineDefaults.maxThreads` = cores - 1, at least 1) for the picker, the stored-value clamp and `setThreads`. Hash: `DeviceProfile.maxHashMb` = 128 on a 32-bit ABI (`Platform.version` target) or with less than 3 GB RAM (`/proc/meminfo` `MemTotal`) or when memory is unknown, else 256; the picker, `setHashMb` and the stored-value clamp use it. Move sounds' subtitle says they follow Android's touch-sounds setting.
 9. **Signing.** Empty or blank values in `key.properties` / the environment count as missing; `storeFile` is documented as relative to `android/`; `tool/check_signing.sh` (run by `tool/build_release.sh`) runs `apksigner verify --print-certs` and, with `GLYPH_REQUIRE_SIGNING=1`, fails on `CN=Android Debug`. Tested with a stand-in `apksigner`.
 10. **Tests.** `startup_test` goes through `Bootstrap` (new `extraOverrides`, test only) and fails on any request through injected recording clients or any `dart:io` `HttpClient`, any engine creation or opening-book read; in-memory `GameRepository.list()` returns an empty `pgn` like SQLite (tests that read the movetext call `get`); `board_assets.dart`'s header names the four piece sets; *Clear saved explanations* asks first.
+
+## M9 review fixes
+
+- **Per-vector `synthetic` flag in the SSE manifest.** The top-level `synthetic` means "any vector is synthetic"; each entry carries its own flag so real captures can replace synthetic files one at a time. The test requires the marker only on flagged entries and, for real ones, no marker and no `sk-` / `bearer`.
+- **Library card width.** `GameCard` is wrapped in `SizedBox(width: double.infinity)` inside the `Dismissible`, because `Dismissible` loosens width constraints through its internal `Stack`.
+- **Release workflow.** Two jobs so only the publish job holds `contents: write`; it never checks out code. Actions are pinned to full commit SHAs, keeping the major versions already in use (v4, v2). The release is always a draft; the maintainer publishes it.

diff --git a/docs/HARDWARE_TEST.md b/docs/HARDWARE_TEST.md
@@ -71,7 +71,7 @@ Legend for `Result`: PASS / FAIL / N/A, plus measured values. Add a note for eve
 |---|---|---|---|---|
 | D1 | OpenAI endpoint, streamed explanation | Streams, cached on repeat | | |
 | D2 | OpenRouter endpoint | Streams | | |
-| D3 | Ollama on LAN over `http://` (private address) | Allowed, streams | | |
+| D3 | Ollama on LAN over `http://` (private address) | Allowed, streams | | Ollama must listen on the LAN: start it with `OLLAMA_HOST=0.0.0.0` (or set it in the service config) and open port 11434 in the computer's firewall; by default it only answers on localhost. LM Studio: turn on "Serve on Local Network". |
 | D4 | Public `http://` host | Blocked with the correct copy | | |
 | D5 | Wrong key (401), wrong model (404) | Mapped error copy | | |
 | D6 | Airplane mode: analysis works | Works | | |
